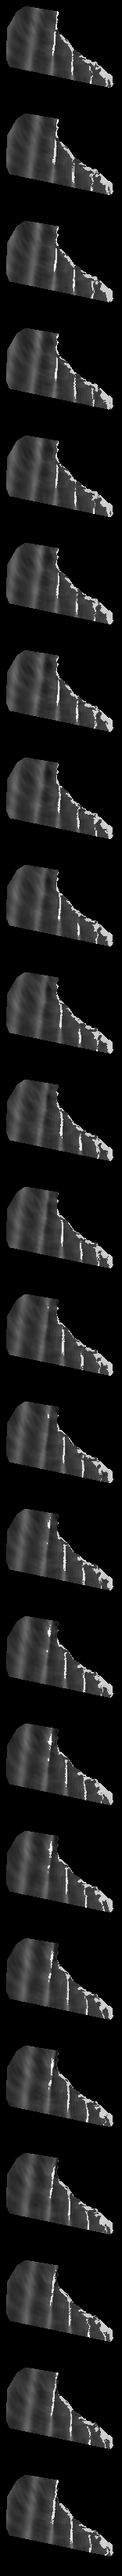
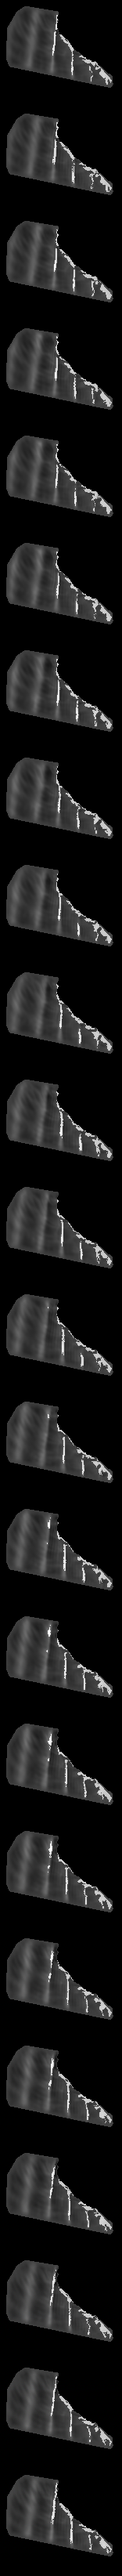
Moving wave: foam trail, clearer crests, fade at the open-water edges

diff --git a/web/src/SpotSheet.tsx b/web/src/SpotSheet.tsx
@@ -109,7 +109,36 @@ function decode(hm: HeightMap): Promise<Decoded> {
   return p;
 }
 
-type Loop = { frames: Uint8ClampedArray[]; w: number; h: number };
+type Loop = { frames: Uint8ClampedArray[]; foam: Uint8ClampedArray[]; w: number; h: number };
+
+// The model flags only the front that is breaking; behind it the foam stays a few seconds,
+// fading. FOAM_LIFE_S is how long it takes to fade to a fifth.
+const FOAM_LIFE_S = 4;
+
+// Foam per frame (0-255): breaking now, or what was left of it a frame ago, fading. Round the
+// loop twice, so the first frames get the foam the last ones left.
+function foamOf(frames: Uint8ClampedArray[], periodS: number): Uint8ClampedArray[] {
+  const n = frames.length;
+  const keep = Math.pow(0.2, periodS / n / FOAM_LIFE_S);
+  const size = frames[0]?.length ?? 0;
+  const foam = frames.map(() => new Uint8ClampedArray(size));
+  let prev = new Float32Array(size);
+  for (let pass = 0; pass < 2; pass++) {
+    for (let k = 0; k < n; k++) {
+      const grey = frames[k]!;
+      const out = foam[k]!;
+      const next = new Float32Array(size);
+      for (let p = 0; p < size; p++) {
+        const g = grey[p]!;
+        const v = g === 0 ? 0 : g >= 128 ? 1 : prev[p]! * keep;
+        next[p] = v;
+        out[p] = Math.round(v * 255);
+      }
+      prev = next;
+    }
+  }
+  return foam;
+}
 const loops = new WeakMap<WaveLoop, Promise<Loop>>();
 
 // The loop's PNG, fetched on first play, split into its frames' grey values.
@@ -132,7 +161,7 @@ function decodeLoop(loop: WaveLoop): Promise<Loop> {
         for (let k = 0; k < w * h; k++) grey[k] = all[(n * w * h + k) * 4]!;
         return grey;
       });
-      return { frames, w, h };
+      return { frames, foam: foamOf(frames, loop.period_s), w, h };
     })();
     loops.set(loop, p);
     p.catch(() => loops.delete(loop));
@@ -150,9 +179,18 @@ const CanvasOverlay = L.ImageOverlay.extend({
   },
 }) as unknown as new (canvas: HTMLCanvasElement, bounds: L.LatLngBoundsExpression, options?: L.ImageOverlayOptions) => L.ImageOverlay;
 
-// One frame of the moving wave: crests light, troughs dark, white water white. In between two
-// saved frames the surface level is blended, so the loop runs smoothly at any speed.
-function paintWave(out: ImageData, a: Uint8ClampedArray, b: Uint8ClampedArray, f: number, top: number, h0: number) {
+// One frame of the moving wave: crests pale blue, troughs dark, white water and its foam white.
+// In between two saved frames everything is blended, so the loop runs smoothly at any speed.
+function paintWave(
+  out: ImageData,
+  a: Uint8ClampedArray,
+  b: Uint8ClampedArray,
+  foamA: Uint8ClampedArray,
+  foamB: Uint8ClampedArray,
+  f: number,
+  top: number,
+  h0: number,
+) {
   const d = out.data;
   for (let k = 0; k < a.length; k++) {
     const va = a[k]!;
@@ -162,26 +200,26 @@ function paintWave(out: ImageData, a: Uint8ClampedArray, b: Uint8ClampedArray, f
       d[o + 3] = 0;
       continue;
     }
-    if ((f < 0.5 ? va : vb) >= 128) {
-      d[o] = 250;
-      d[o + 1] = 252;
-      d[o + 2] = 255;
-      d[o + 3] = 245;
-      continue;
-    }
     const level = (1 - f) * (va & 127) + f * (vb & 127);
     const eta = ((level - 1) / 126) * 2 * top - top;
+    let r: number, g: number, bl: number, al: number;
     if (eta >= 0) {
-      d[o] = 150;
-      d[o + 1] = 205;
-      d[o + 2] = 228;
-      d[o + 3] = Math.min(130, (eta / (0.6 * h0)) * 110);
+      r = 178;
+      g = 222;
+      bl = 240;
+      al = Math.min(190, (eta / (0.45 * h0)) * 160);
     } else {
-      d[o] = 2;
-      d[o + 1] = 14;
-      d[o + 2] = 26;
-      d[o + 3] = Math.min(150, (-eta / (0.6 * h0)) * 130);
+      r = 2;
+      g = 14;
+      bl = 26;
+      al = Math.min(150, (-eta / (0.5 * h0)) * 130);
     }
+    // White water over it, fading with the foam.
+    const foam = ((1 - f) * foamA[k]! + f * foamB[k]!) / 255;
+    d[o] = r + (252 - r) * foam;
+    d[o + 1] = g + (253 - g) * foam;
+    d[o + 2] = bl + (255 - bl) * foam;
+    d[o + 3] = Math.max(al, foam * 240);
   }
 }
 
@@ -302,10 +340,13 @@ function SheetMap({ sheet }: { sheet: Sheet }) {
       if (playing) phase.current = (phase.current + dt * (speed / wl.period_s)) % 1;
       const x = phase.current * loop.frames.length;
       const n0 = Math.floor(x) % loop.frames.length;
+      const n1 = (n0 + 1) % loop.frames.length;
       const a = loop.frames[n0];
-      const b = loop.frames[(n0 + 1) % loop.frames.length];
-      if (a && b) {
-        paintWave(img, a, b, x - Math.floor(x), wl.eta_top_m, swell.height_m);
+      const b = loop.frames[n1];
+      const fa = loop.foam[n0];
+      const fb = loop.foam[n1];
+      if (a && b && fa && fb) {
+        paintWave(img, a, b, fa, fb, x - Math.floor(x), wl.eta_top_m, swell.height_m);
         ctx.putImageData(img, 0, 0);
       }
       if (playing) raf = requestAnimationFrame(draw);
@@ -504,7 +545,7 @@ function SheetMap({ sheet }: { sheet: Sheet }) {
       {view === "wave" ? (
         <div className="sheet-legend">
           <p>
-            Crests pale blue, troughs dark, white water white. One wave of a perfectly regular {swell.name} swell,
+            Crests pale blue, troughs dark, white water and its foam white. One wave of a perfectly regular {swell.name} swell,
             repeated: the real sea comes in sets, and this shows how each wave of it moves across the reef.
           </p>
         </div>
